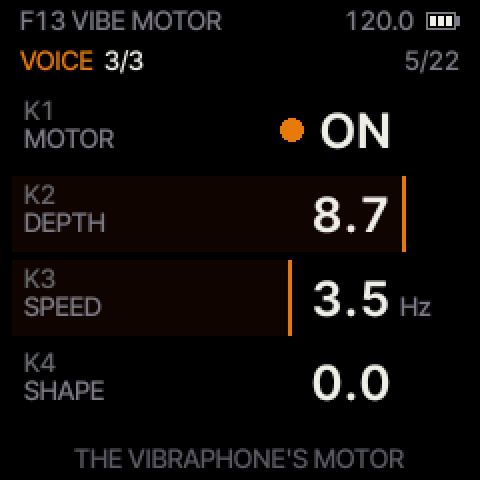
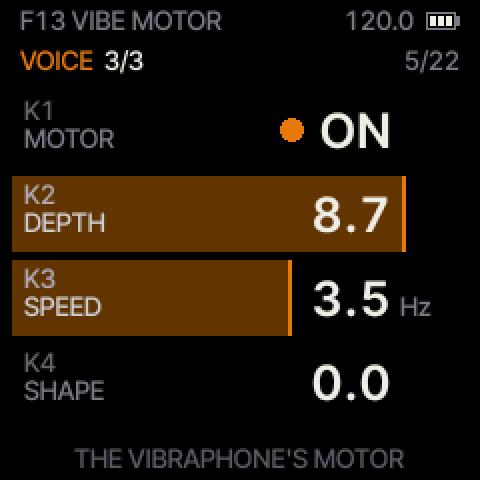
UI: the fader fill a warm amber at 45 % of the accent by default (the user approved final-A24-fill45.png)
The user: "i said that i like the orange/yellow effect on the fader" (the dim token read near black). Design A,
24 px, breathing, now with UI_FILL_PCT 45 by default (ui.c): the fader fill and the lit selector blocks are the
palette's accent x 45 %; on a fill the K tag and label are lighter greys (RGB 170 / 206), the turned knob's label
white there (amber would vanish; the 1 px amber frame still marks it). Look C on AMBER keeps its matched fill.
UI_FILL_PCT 30 / 60 and UI_FILL_GRAD 1 (15 -> 60 % toward the edge) stay as build defines (tools/cards_sheet.py
--fill). Merged main (153abe6). Screenshots regenerated in the framebuffer's colours (every page, overview.png,
piano.png); MANUAL: the fill's colour, the turned label on a fill. test_ui_cards: the turned label white on a fill.

Tested: make test (all ok); make pytest 629 passed; Gate R 69/69 byte-identical; ./build.sh with every build.py
check ok: image 411704 B of 581564, RAM 52452 B, fonts AF_S 16556 + AF_V24 7010 + FONT_S 9500 = 33066 B;
web/build.sh builds (not published). Not on the FM-1.

Claude-Session: https://claude.ai/code/session_01Dz8MB3aMWQ3NXyFVXtBmgi

Changed region(s): [[0.0, 0.3438, 0.8438, 0.7188]]

diff --git a/tests/py/test_ui_cards.py b/tests/py/test_ui_cards.py
@@ -369,7 +369,9 @@ def test_cards_hot_frame(variant):
             box = M.row_box(im, j)
             fo, tb = M.frame_on(im, box, acc)
             x0, y0 = M.ROW_X0, M.ROW_Y0 + M.ROW_DY * j               # the label's accent cores (its box)
-            lab = int(M.is_acc(im[y0 + base - 10:y0 + base, x0 + 6:x0 + 6 + 40], acc).sum())
+            lb = im[y0 + base - 10:y0 + base, x0 + 6:x0 + 6 + 40]
+            on_fill = b is not None and j == k and b["fw"] > 6 and b["style"] in "FS"   # (the label on the fill:
+            lab = int((M.white(lb) if on_fill else M.is_acc(lb, acc)).sum())          # white, amber would vanish)
             on = dt < 1000 and j == k
             if on and (fo < 0.8 or lab < 8):
                 errs.append(f"{NAMES[variant]} K{k + 1} +{dt}: row {j + 1} no frame ({fo:.2f}) / label ({lab})")

diff --git a/firmware/src/ui.c b/firmware/src/ui.c
@@ -251,7 +251,7 @@ static void mt_update(void)                             /* the tokens for the lo
     mt.fill = amber && l->amb_fill ? l->amb_fill : (uint16_t)((rr << 11) | (gg << 5) | bb);
 #if UI_FILL_PCT > 0                                     /* the fill as a share of the accent (the user: "the orange /
                                                          * yellow effect on the fader"; the strength sheet) */
-    mt.fill = cd_shade(amber && l->amb_acc ? l->amb_acc : pal[3], UI_FILL_PCT);
+    if (!(amber && l->amb_fill)) mt.fill = cd_shade(pal[3], UI_FILL_PCT);   /* (look C on AMBER: its own, matched) */
 #endif
     mt.acc = mt.edge = mt.frame = amber && l->amb_acc ? l->amb_acc : pal[3];
     mt.surf = l->surf; mt.track = l->track; mt.outline = l->outline; mt.hair = l->hair; mt.seq = l->seq;

diff --git a/docs/MANUAL.md b/docs/MANUAL.md
@@ -64,7 +64,7 @@ order; changing the TYPE changes the pages with it.
 figures, every value the same size and ending at the same place, with the unit beside it in small letters (Hz, kHz,
 ms, s, dB, c for cents, %). What is drawn behind the value tells you at a glance what kind of control it is:
 
-- **An amount** (DEPTH, MIX, a time, a frequency ...): the card is a fader. It fills with dim amber from the left up
+- **An amount** (DEPTH, MIX, a time, a frequency ...): the card is a fader. It fills with warm amber from the left up
   to the value, with a bright amber edge where the fill ends (the edge stops short of the letters, so it never cuts a
   number): empty at 0, full at the top.
 - **A selector** (TYPE, EFFECT DIG / ANA, a filter type, a note value, a scale, a chord type ...): the card is cut
@@ -80,7 +80,7 @@ ms, s, dB, c for cents, %). What is drawn behind the value tells you at a glance
 A few names too long for their card are written shorter, in the same large letters: on ASSIGN **TRM/WAH**, **TRM
 RATE**, **TRM SHP**, **PHA SPD**, **PHA FDBK**, **CHO SPD**, **DLY FDBK**, **CMP GAIN** (the compressor's make-up).
 
-**The card you are turning** gets a thin amber frame and its name turns amber, for about a second after you stop.
+**The card you are turning** gets a thin amber frame and its name turns amber (white where it sits on the fill), for about a second after you stop.
 The numbers are rounded to what fits on the card (1.486 s shows 1.5 s, +11.8 dB shows +12 dB).
 
 The top line shows the preset, the octave (O+1, O−2...), **SUS** while the sustain is held, **BYP** while the effects
